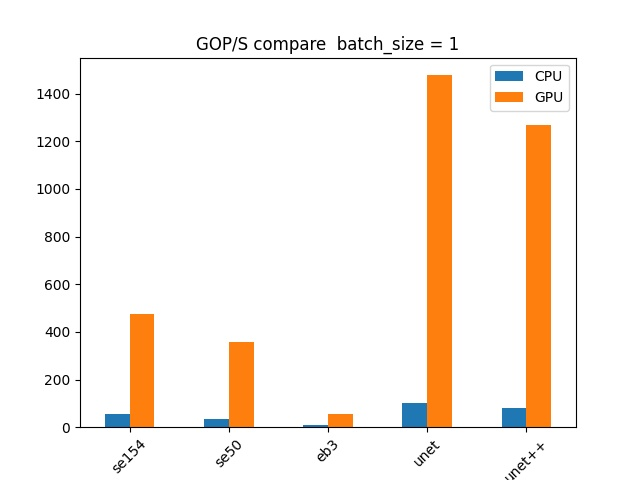
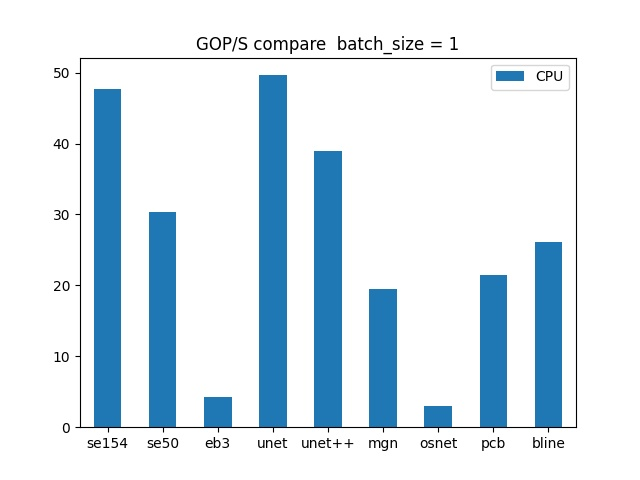
complete reid model cpu test

diff --git a/benchmark_op.py b/benchmark_op.py
@@ -23,9 +23,9 @@ def transStr2Float(input_str):
             return float(input_str[:c])
 
 class InferenceDataset(Dataset):
-    def __init__(self, num):
+    def __init__(self, num, h, w):
         self.num = num
-        self.data = torch.randn(num, 3, 224, 224) # support img size is 3*224*224
+        self.data = torch.randn(num, 3, h, w) # support img size is 3*224*224
 
     def __getitem__(self, index):
         return self.data[index, :, :, :]
@@ -35,16 +35,19 @@ class InferenceDataset(Dataset):
 
 class DLHBenchmark():
     """can benchmark GOPS and GOPJ on different hardware by running different model"""
-    def __init__(self, warm_up, infer_epoch, batch_size_list, model_list, hardware_info):
+    def __init__(self, warm_up, infer_epoch, batch_size_list, model_list, model_simple, hardware_info):
         self.warm_up = warm_up
         self.infer_epoch = infer_epoch
         self.batch_size_list = batch_size_list
         self.model_list = model_list
+        self.model_simple = model_simple
         self.hardware_info = hardware_info
 
         max_batch_size = max(self.batch_size_list)
         data_num = max_batch_size * (self.warm_up + self.infer_epoch)
-        self.dataset = InferenceDataset(data_num)
+        self.dataset = InferenceDataset(data_num, 224, 224)
+        self.dataset_reid = InferenceDataset(data_num, 384, 128)
+        self.dataset_osnet = InferenceDataset(data_num, 256, 128)
 
     def inference_cpu(self, model_name, batch_size):
         durations = []
@@ -52,7 +55,12 @@ class DLHBenchmark():
         opj = 0
 
         model = pm.__dict__[model_name]()
-        macs, params = get_model_complexity_info(model, (3,224,224), as_strings=True, 
+        input_res = (3, 224, 224)
+        if model_name == "osnet":
+            input_res = (3, 256, 128)
+        elif model_name == "mgn" or model_name == "pcb" or model_name == "baseline":
+            input_res = (3, 384, 128)
+        macs, params = get_model_complexity_info(model, input_res, as_strings=True, 
                                         print_per_layer_stat=False, verbose=True)                                                
         float_macs = transStr2Float(macs)
         op_num = float_macs * pow(10, 9) * 2
@@ -60,8 +68,16 @@ class DLHBenchmark():
         # 先使用paper给的值
         if model_name == "efficientnet_b3":
             op_num = 1.8 * pow(10, 9)
+        elif model_name == "osnet":
+            op_num = 0.98 * pow(10,9)
+        
+        img_dataset = self.dataset
+        if model_name == "osnet":
+            img_dataset = self.dataset_osnet
+        elif model_name == "mgn" or model_name == "pcb" or model_name == "baseline":
+            img_dataset = self.dataset_reid
 
-        img_dataloader = DataLoader(dataset = self.dataset,
+        img_dataloader = DataLoader(dataset = img_dataset,
                                 batch_size = batch_size,
                                 num_workers = 4)
         loop_num = self.warm_up + self.infer_epoch
@@ -96,7 +112,12 @@ class DLHBenchmark():
 
         model = pm.__dict__[model_name]()
         model = model.to("cuda")
-        macs, params = get_model_complexity_info(model, (3,224,224), as_strings=True, 
+        input_res = (3, 224, 224)
+        if model_name == "osnet":
+            input_res = (3, 256, 128)
+        elif model_name == "mgn" or model_name == "pcb" or model_name == "baseline":
+            input_res = (3, 384, 128)
+        macs, params = get_model_complexity_info(model, input_res, as_strings=True, 
                                         print_per_layer_stat=False, verbose=True)                                                
         float_macs = transStr2Float(macs)
         op_num = float_macs * pow(10, 9) * 2
@@ -104,8 +125,15 @@ class DLHBenchmark():
         # 先使用paper给的值
         if model_name == "efficientnet_b3":
             op_num = 1.8 * pow(10, 9)
+        elif model_name == "osnet":
+            op_num = 0.98 * pow(10,9)
 
-        img_dataloader = DataLoader(dataset = self.dataset,
+        img_dataset = self.dataset
+        if model_name == "osnet":
+            img_dataset = self.dataset_osnet
+        elif model_name == "mgn" or model_name == "pcb" or model_name == "baseline":
+            img_dataset = self.dataset_reid
+        img_dataloader = DataLoader(dataset = img_dataset,
                                 batch_size = batch_size,
                                 num_workers = 4)
         loop_num = self.warm_up + self.infer_epoch
@@ -113,7 +141,7 @@ class DLHBenchmark():
         model.eval()
         
         for step, img in enumerate(img_dataloader):
-            img.to("cuda")
+            img = img.to("cuda")
             if step >= loop_num:
                 break
             starter, ender = torch.cuda.Event(enable_timing = True), torch.cuda.Event(enable_timing = True)
@@ -169,7 +197,7 @@ class DLHBenchmark():
                 benchmark_opj[hardware_type] = opj_record
 
             file_name = "results/final/final_ops_" + str(batch_size)
-            benchmark_ops_new = pandas.DataFrame(benchmark_ops, index = self.model_list)
+            benchmark_ops_new = pandas.DataFrame(benchmark_ops, index = self.model_simple)
             fig1_title = "GOP/S compare  " + "batch_size = " + str(batch_size)
             ops_pt = benchmark_ops_new.plot(kind="bar", title=fig1_title, rot=0)
             ops_fig = ops_pt.get_figure()
@@ -178,7 +206,7 @@ class DLHBenchmark():
             benchmark_ops_new.to_csv(file_name, index = True)
 
             file_name = "results/final/final_opj_" + str(batch_size)
-            benchmark_opj_new = pandas.DataFrame(benchmark_opj, index = self.model_list)
+            benchmark_opj_new = pandas.DataFrame(benchmark_opj, index = self.model_simple)
             fig2_title = "GOP/J compare  " + "batch_size = " + str(batch_size)
             opj_pt = benchmark_opj_new.plot(kind="bar", title=fig2_title, rot=0)
             opj_fig = opj_pt.get_figure()
@@ -192,8 +220,9 @@ if __name__ == "__main__":
     batch_size_list = [1, 2, 4]
     model_list = ["senet154", "se_resnext50_32x4d", "efficientnet_b3", "unet", "unetpp",
             "mgn", "osnet", "pcb", "baseline"]
-    hardware_info = {"CPU":15, "GPU":75}
+    model_simple = ["se154", "se50", "eb3", "unet", "unet++", "mgn", "osnet", "pcb", "bline"]
+    hardware_info = {"CPU":45, "GPU":75}
     dlh_bench = DLHBenchmark(warm_up, infer_epoch, batch_size_list,
-                            model_list, hardware_info)
+                            model_list, model_simple, hardware_info)
     dlh_bench.bench_opsj()
     
